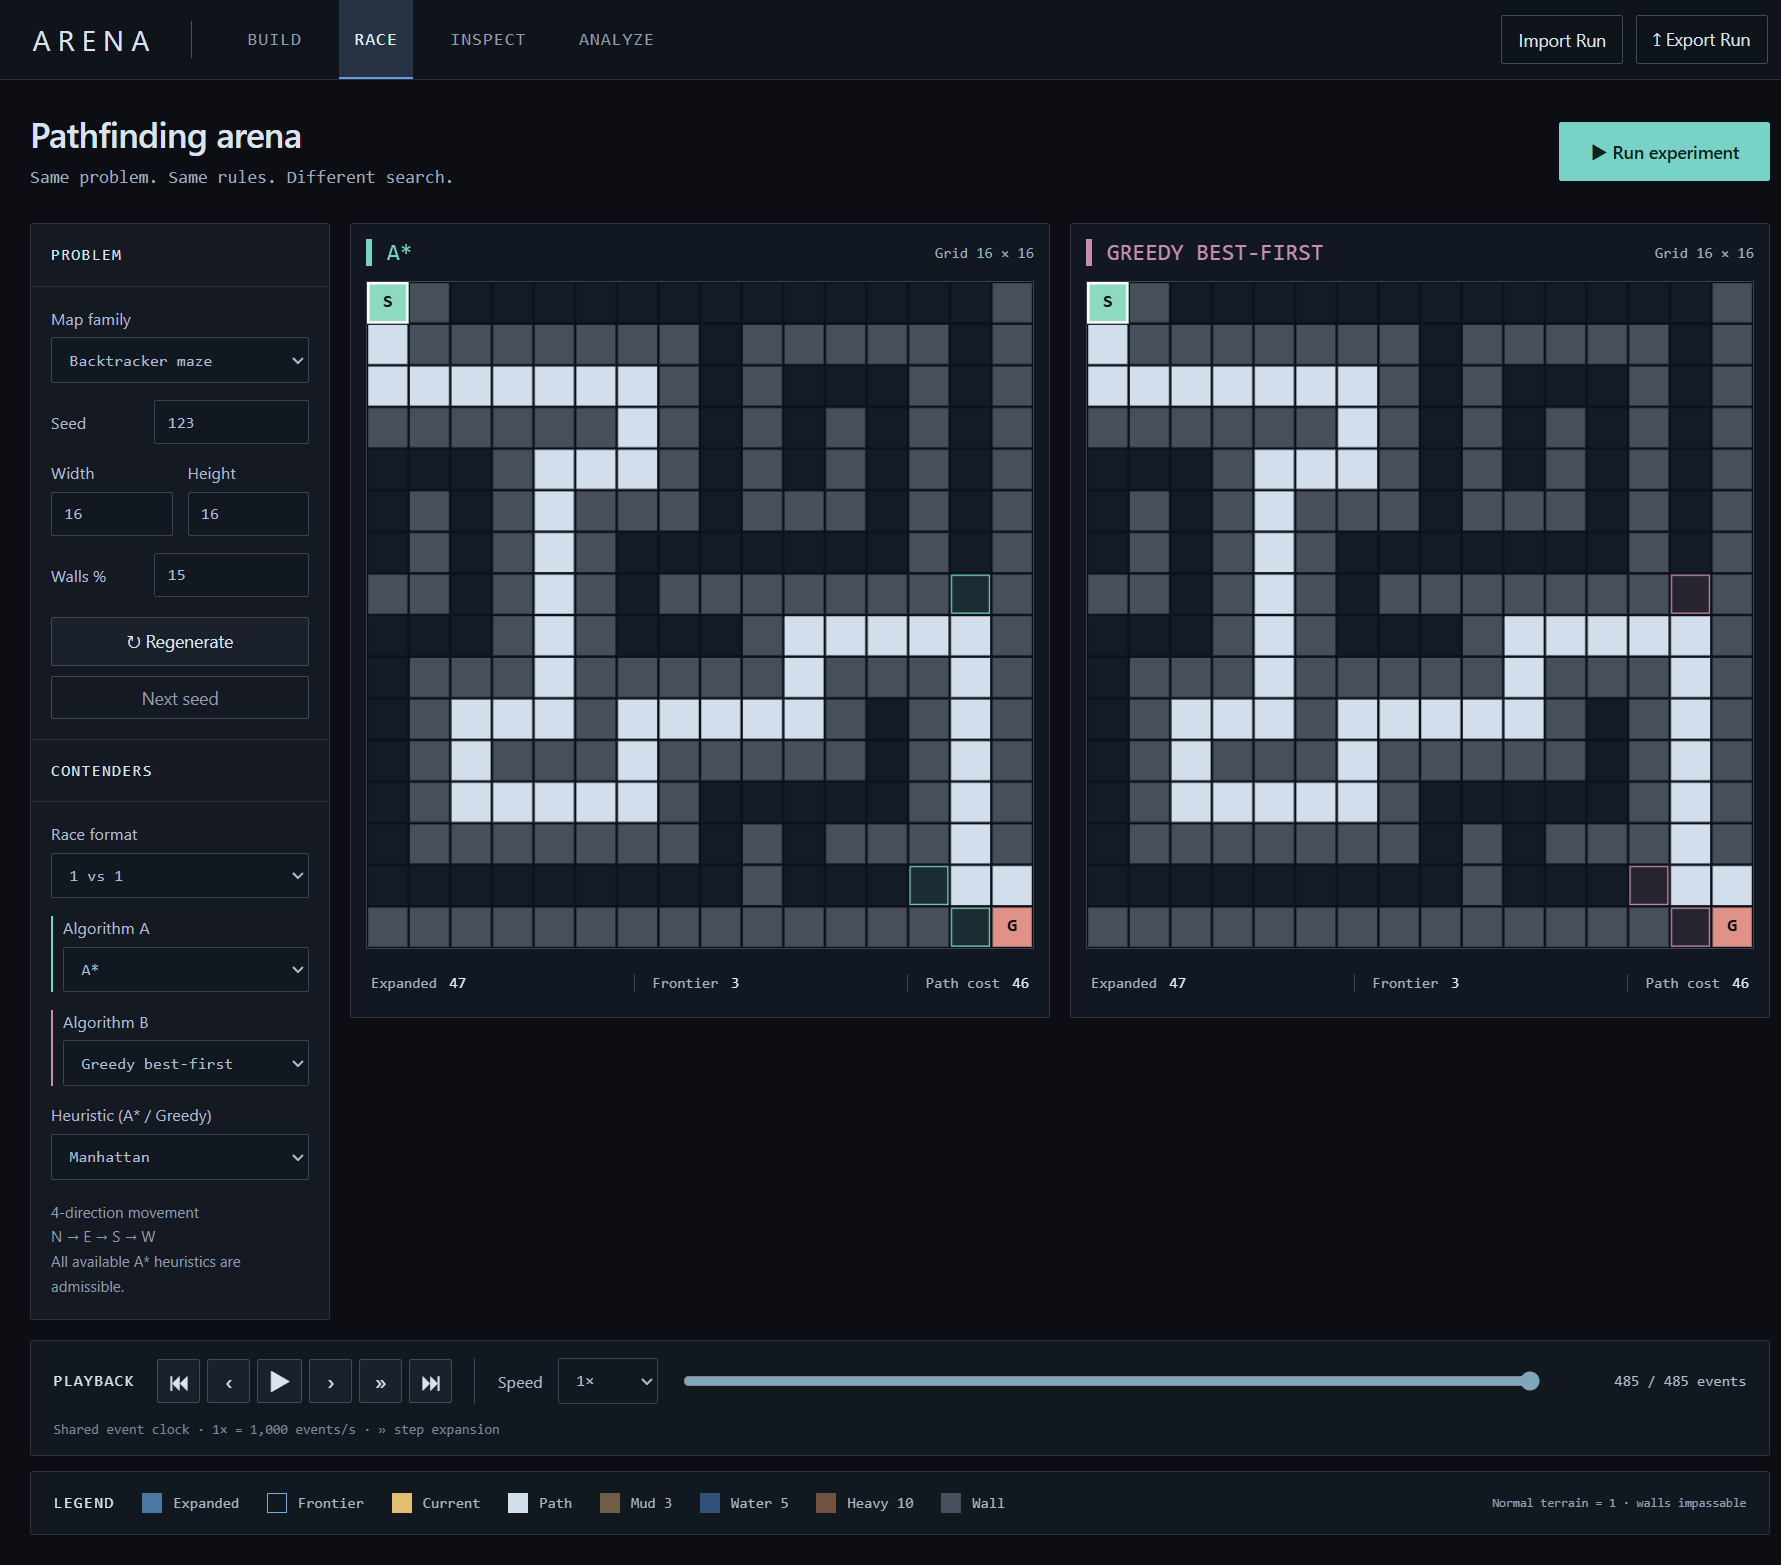
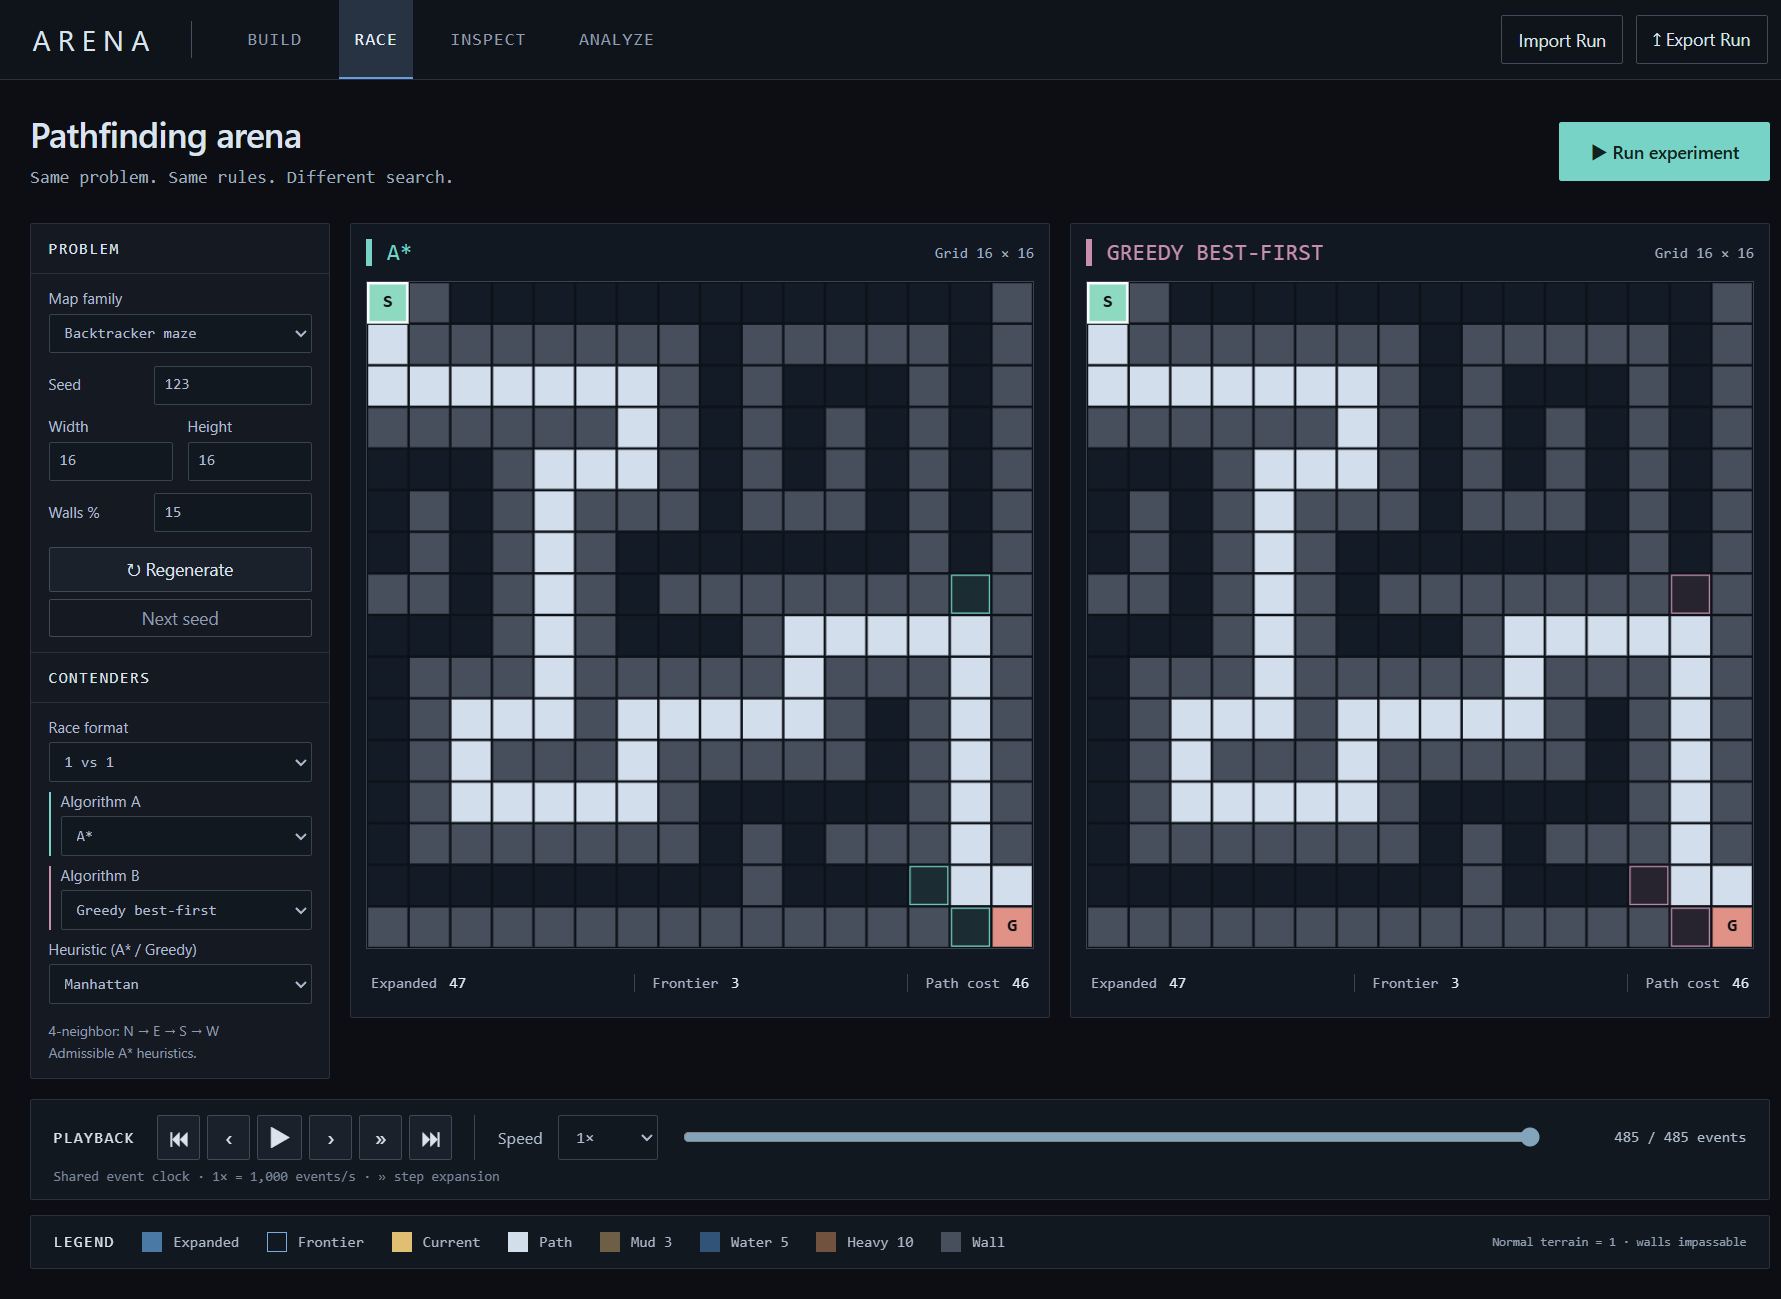
docs: record Phase 1 acceptance and verified portable launch

diff --git a/docs/acceptance.md b/docs/acceptance.md
@@ -1,0 +1,79 @@
+# Phase 1 acceptance — 2026-10-04 (Asia/Taipei)
+
+Local acceptance: **PHASE 1 PASS**. Remote CI status must be read from the linked workflow; local PASS does not imply that an in-progress CI run has completed.
+
+## Implemented
+
+Rust deterministic engine, five algorithms, eight map families, canonical versioned events/hashes, metrics and state footprint proxy, independent correctness oracle, checkpoint replay, headless CLI, JSON benchmark, React/Vite Canvas UI, BUILD/RACE/INSPECT/ANALYZE, 1v1/four contenders, editor validity, shared timeline and all requested speeds, node inspection, deterministic feature analysis, optional explanation provider abstraction, export/import and Tauri Windows packaging.
+
+No synthetic execution/metrics or algorithm reexecution in replay. UI algorithms are executed in Rust in both desktop and browser development adapters. There is no live LLM provider.
+
+## Checks
+
+| Check | Actual evidence |
+| --- | --- |
+| Rust tests | 29 passed: 4 CLI, 23 foundation, 2 Phase 1/service |
+| Rust formatting / Clippy | Root workspace passed; Tauri formatting passed |
+| Frontend unit cases | 29 passed, including reduction of a real Rust log |
+| Frontend lint / typecheck / production build | Passed |
+| Browser E2E | Final run: 18 passed in 1.3 minutes |
+| Browser identity | Correct URL/title, nonblank, no framework overlay |
+| Browser health | 0 console errors; no horizontal page overflow at 1536px/390px |
+| Packaged desktop | Three pairings passed on a real WebView2/Tauri window |
+| Portable clean-start | Copied executable launched with a fresh profile; three pairings passed |
+
+The browser plugin entry point timed out; regular Playwright Chromium was used. Browser development URL: `http://127.0.0.1:1431`; desktop URL: `http://tauri.localhost/`. Desktop screenshots were captured from the packaged app through WebView2's local CDP endpoint.
+
+Interaction coverage: BUILD paint/clear and invalid dimensions; BFS vs DFS, Dijkstra vs A*, A* vs Greedy across open, backtracker maze, weighted, corridor and obstacle maps; end/beginning/event/expansion/backward stepping and speed controls; node inspector; measured analysis; four contenders; export/import without a new search request; missing AI provider; desktop/narrow layouts.
+
+An additional local run initially hit the dev adapter's 5-second wait during compute, then passed after assertions were given a 15-second completion window. No test retries hide this failure. Vite now excludes Rust target directories from watching. The first remote CI failed Tauri formatting; formatted sources are committed for the subsequent run.
+
+## Determinism and replay
+
+| Gate | Seeds | Algorithms | Repeats | Executions/replays | Seek cases | Mismatch/divergence |
+| --- | ---: | ---: | ---: | ---: | ---: | ---: |
+| Phase 0 | 100 | 3 | 2 | 600 | 16,950 | 0 |
+| Phase 1 core | 100 | 5 | 2 | 1,000 | 24,966 | 0 |
+
+Both gates had zero invalid paths/crashes. The five-algorithm gate checked 600 optimality cases for BFS's step objective and Dijkstra/A*'s cost objective. Unit tests additionally cover all four admissible A* heuristics, zero heuristic, tiny/blocked/high-cost/large maps, queue ties, event serialization and invalid imports. Seek checks include checkpoint -1/at/+1, seeded random targets and backward/forward restoration against independently accumulated event prefixes. Execution-owned cost/parent/closed/discovered/frontier arrays match the replay terminal state.
+
+Raw evidence: [`phase0-gate.json`](../phase0-gate.json), [`phase1-core-gate.json`](../phase1-core-gate.json).
+
+## Benchmark
+
+8 families × 3 seeds × 3 dimensions × 5 algorithms = 360 runs. Each includes 50 seek latency samples (18,000 timings); performance timing samples are distinct from correctness seek cases.
+
+| Size | Compute p50 ms | Compute p95 ms | Highest individual-run seek p95 ms |
+| --- | ---: | ---: | ---: |
+| 32×32 | 0.637 | 3.898 | 0.398 |
+| 64×64 | 2.494 | 39.292 | 1.672 |
+| 128×128 | 8.677 | 277.989 | 252.207 |
+
+Windows x64, release build; non-isolated host. Compute includes event collection/accounting, excludes generation/hash/serialization/playback. Seek is Rust headless checkpoint replay; these figures do not measure a browser frame rate. All per-run compute/event/checkpoint/replay/seek p50/p95 values are retained in [`benchmark.json`](../benchmark.json). These are measurements, not a performance PASS or universal ranking.
+
+## Windows
+
+- Tauri 2 x64 release executable, unsigned NSIS installer, portable ZIP with license notices.
+- Local artifacts: `output/windows/portable/Project-ARENA.exe`, `output/windows/Project-ARENA-0.1.0-portable.zip`, `output/windows/Project ARENA_0.1.0_x64-setup.exe`.
+- Portable and original build contain the same compiled executable; the portable copy was actually executed with a new WebView2 data folder.
+- HTTPS browser requests were blocked during packaged tests; no remote request occurred. Rust generation/execution and saved-log seek, INSPECT and ANALYZE all worked.
+- Portable requires an installed WebView2 Runtime. The installer can bootstrap it online. A clean-machine installer install/uninstall cycle and code signing are not claimed.
+- [`windows-launch-verification.json`](../windows-launch-verification.json) records actual terminal metrics, replay equality, node inspector and analysis checks. `output/windows/artifact-manifest.json` records local SHA-256 checksums.
+
+Reproduce the WebView smoke checks by starting the app with `WEBVIEW2_ADDITIONAL_BROWSER_ARGUMENTS=--remote-debugging-port=9223`, optionally assigning a new `WEBVIEW2_USER_DATA_FOLDER`, then running `node scripts/desktop-smoke.mjs`. The profile override is documented in [Microsoft's WebView2 reference](https://learn.microsoft.com/en-us/microsoft-edge/webview2/reference/win32/webview2-idl?view=webview2-1.0.3967.48); the app command boundary follows [Tauri's Rust command API](https://v2.tauri.app/develop/calling-rust/).
+
+## GitHub
+
+Private repository: [oliverchenOVO/project-arena](https://github.com/oliverchenOVO/project-arena), branch `main`. Repository privacy was verified through CLI and connector metadata. Milestones were committed and pushed individually. The initial CLI token lacked workflow scope; the existing GitHub connector successfully installed the workflow, so that blocker was resolved.
+
+Workflow: [ARENA verification](https://github.com/oliverchenOVO/project-arena/actions/workflows/ci.yml). Core, frontend and Windows build are separate jobs. See the final handoff for the observed run/commit status; this file cannot embed its own future commit hash.
+
+## Known limitations
+
+- 128×128 large-log checkpoint memory/seek latency need optimization; full-state snapshots are capped at 33, trading memory for suffix work.
+- No configured AI provider; deterministic analysis remains available.
+- No signing, clean-machine installer cycle, Linux/macOS packaging or browser-engine matrix verification.
+- Advanced weakness-exposure scenarios, sorting, graph editor and additional algorithm families are deferred.
+- Full CLI u64 seeds may exceed JavaScript's safe integer range and are outside the frontend import contract.
+
+Screenshots: [`race`](screenshots/race.png), [`build`](screenshots/build.png), [`inspect`](screenshots/inspect.png), [`analyze`](screenshots/analyze.png), [`packaged Windows`](screenshots/windows-packaged.png).
